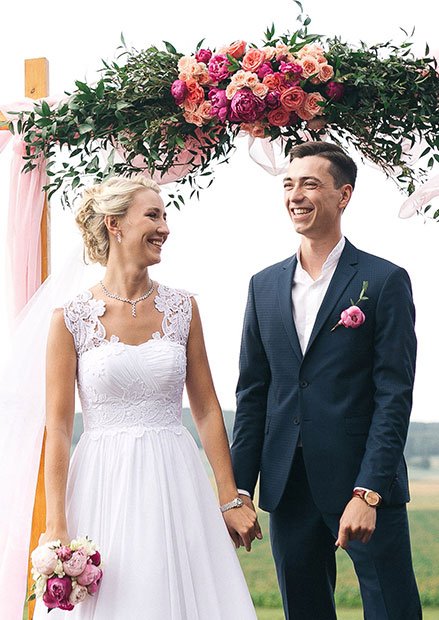
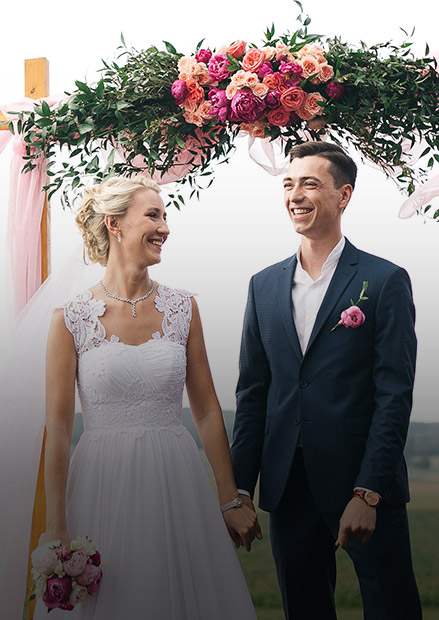
1.11.17

diff --git a/portfolio.html b/portfolio.html
@@ -40,8 +40,8 @@
         </div>
 
         <article class="wedding">
-        <div class="photo-wedding">
-            <img src="img/portfolio-big1.jpg" width=300px>
+        <div class="photo-wedding wed-mask">
+            <img src="img/portfolio-big1.jpg" width=439px height="620px">
             <div class="wedding-info">
                 <h2>Восточная сказка</h2>
                 <p>26/03/2017</p>
@@ -49,12 +49,12 @@
             </div>    
         </div>
         <div class="photo-wedding wedding-2">
-            <img src="img/portfolio-mini1-1.jpg" width=305px>
-            <img src="img/portfolio-mini1-2.jpg" width=305px>
+            <img src="img/portfolio-mini1-1.jpg" width=431px>
+            <img src="img/portfolio-mini1-2.jpg" width=431px>
         </div>
         <div class="photo-wedding wedding-3">
-            <img src="img/portfolio-nano1-1.jpg" width=180px>
-            <img src="img/portfolio-nano1-2.jpg" width=180px>
+            <img src="img/portfolio-nano1-1.jpg" width=260px>
+            <img src="img/portfolio-nano1-2.jpg" width=260px>
         </div>   
         </article>
 
@@ -62,7 +62,7 @@
 
         <article class="wedding">
         <div class="photo-wedding">
-            <img src="img/portfolio-big2.jpg" width=300px>
+            <img src="img/portfolio-big2.jpg" width=439px>
             <div class="wedding-info">
                 <h2>Розовые тона</h2>
                 <h2>Нежные пионы</h2>
@@ -71,12 +71,12 @@
             </div>   
         </div>
         <div class="photo-wedding wedding-2">
-            <img src="img/portfolio-mini2-1.jpg" width=305px>
-            <img src="img/portfolio-mini2-2.jpg" width=305px>
+            <img src="img/portfolio-mini2-1.jpg" width=431px>
+            <img src="img/portfolio-mini2-2.jpg" width=431px>
         </div>
         <div class="photo-wedding wedding-3">
-            <img src="img/portfolio-nano2-1.jpg" width=180px>
-            <img src="img/portfolio-nano2-2.jpg" width=180px>
+            <img src="img/portfolio-nano2-1.jpg" width=260px>
+            <img src="img/portfolio-nano2-2.jpg" width=260px>
         </div>   
         </article>
 
@@ -84,7 +84,7 @@
 
         <article class="wedding">
         <div class="photo-wedding">
-            <img src="img/portfolio-big3.jpg" width=300px>
+            <img src="img/portfolio-big3.jpg" width=439px>
             <div class="wedding-info">
                 <h2>Зефирная сказка</h2>
                 <p>21/05/2017</p>
@@ -92,12 +92,12 @@
                 </div>
         </div>
         <div class="photo-wedding wedding-2">
-            <img src="img/portfolio-mini3-1.jpg" width=305px>
-            <img src="img/portfolio-mini3-2.jpg" width=305px>
+            <img src="img/portfolio-mini3-1.jpg" width=431px>
+            <img src="img/portfolio-mini3-2.jpg" width=431px>
         </div>
         <div class="photo-wedding wedding-3">
-            <img src="img/portfolio-nano3-1.jpg" width=180px>
-            <img src="img/portfolio-nano3-2.jpg" width=180px>
+            <img src="img/portfolio-nano3-1.jpg" width=260px>
+            <img src="img/portfolio-nano3-2.jpg" width=260px>
         </div>   
         </article>
 
@@ -105,7 +105,7 @@
 
         <article class="wedding">
         <div class="photo-wedding">
-            <img src="img/portfolio-big4.jpg" width=300px>
+            <img src="img/portfolio-big4.jpg" width=439px>
             <div class="wedding-info">
                 <h2>Морская свадьба</h2>
                 <p>12/07/2016</p>
@@ -113,12 +113,12 @@
                 </div>
         </div>
         <div class="photo-wedding wedding-2">
-            <img src="img/portfolio-mini4-1.jpg" width=305px>
-            <img src="img/portfolio-mini4-2.jpg" width=305px>
+            <img src="img/portfolio-mini4-1.jpg" width=431px>
+            <img src="img/portfolio-mini4-2.jpg" width=431px>
         </div>
         <div class="photo-wedding wedding-3">
-            <img src="img/portfolio-nano4-1.jpg" width=180px>
-            <img src="img/portfolio-nano4-2.jpg" width=180px>
+            <img src="img/portfolio-nano4-1.jpg" width=260px>
+            <img src="img/portfolio-nano4-2.jpg" width=260px>
         </div>   
         </article>
 
@@ -126,7 +126,7 @@
 
         <article class="wedding">
         <div class="photo-wedding">
-            <img src="img/portfolio-big5.jpg" width=300px>
+            <img src="img/portfolio-big5.jpg" width=439px>
             <div class="wedding-info">
             <h2>Лавандовая свадьба</h2>
                 <p>03/06/2016</p>
@@ -134,12 +134,12 @@
                 </div>
         </div>
         <div class="photo-wedding wedding-2">
-            <img src="img/portfolio-mini5-1.jpg" width=305px>
-            <img src="img/portfolio-mini5-2.jpg" width=305px>
+            <img src="img/portfolio-mini5-1.jpg" width=431px>
+            <img src="img/portfolio-mini5-2.jpg" width=431px>
         </div>
         <div class="photo-wedding wedding-3">
-            <img src="img/portfolio-nano5-1.jpg" width=180px>
-            <img src="img/portfolio-nano5-2.jpg" width=180px>
+            <img src="img/portfolio-nano5-1.jpg" width=260px>
+            <img src="img/portfolio-nano5-2.jpg" width=260px>
         </div>   
         </article>
 
@@ -147,7 +147,7 @@
 
         <article class="wedding">
         <div class="photo-wedding">
-            <img src="img/portfolio-big6.jpg" width=300px>
+            <img src="img/portfolio-big6.jpg" width=439px>
             <div class="wedding-info">
             <h2>Ретро свадьба</h2>
                 <p>12/08/2015</p>
@@ -155,12 +155,12 @@
                 </div>
         </div>
         <div class="photo-wedding wedding-2">
-            <img src="img/portfolio-mini6-1.jpg" width=305px>
-            <img src="img/portfolio-mini6-2.jpg" width=305px>
+            <img src="img/portfolio-mini6-1.jpg" width=431px>
+            <img src="img/portfolio-mini6-2.jpg" width=431px>
         </div>
         <div class="photo-wedding wedding-3">
-            <img src="img/portfolio-nano6-1.jpg" width=180px>
-            <img src="img/portfolio-nano6-2.jpg" width=180px>
+            <img src="img/portfolio-nano6-1.jpg" width=260px>
+            <img src="img/portfolio-nano6-2.jpg" width=260px>
         </div>   
         </article>
             

diff --git a/css/style.css b/css/style.css
@@ -414,13 +414,13 @@
      position: relative;
      display: flex;
      justify-content: space-between;
-     width: 850px;
+     width: 1170px;
+     height: 620px;
      outline: 1px solid green;
 }
 
 .photo-wedding {
-     width: 300px;
-     min-height: 300px;
+     width: 439px;
      outline: 1px solid red;
 }
 
@@ -433,11 +433,17 @@
 }
 
 .wedding-2 {
-     width: 305px;
+     width: 431px;
+     display: flex;
+     flex-direction: column;
+     justify-content: space-between;
 }
 
 .wedding-3 {
-     width: 180px;
+     width: 260px;
+     display: flex;
+     flex-direction: column;
+     justify-content: space-between;
 }
 
 .wedding-info {
@@ -445,10 +451,21 @@
      bottom: 0;
 }
 
+.wedding-info h2, .wedding-info p {
+     font-size: 16px;
+     color: #ffffff;
+}
+
+.wedding-info a {
+     font-size: 16px;
+     color: #ffffff;
+}
+
 /*-------rewies-----*/
 
 .wed-rew {
      margin-bottom: 30px;
+     width: 1170px;
 }
 
 .rewies-text {
@@ -460,7 +477,7 @@
 }
 
 .rewies-photo-wed {
-     width: 400px;
+     width: 570px;
      min-height: 300px;
      outline: 1px solid red;
 }

diff --git a/rewies.html b/rewies.html
@@ -52,7 +52,7 @@
             <a class="arrow arrow-rew" href="#"></a>
         </div>
         <div class="rewies-photo-wed">
-           <img src="img/wedding6.jpg" width=385px>
+           <img src="img/rew1.jpg"  width=570px height=420px>
         </div>   
     </article>
 
